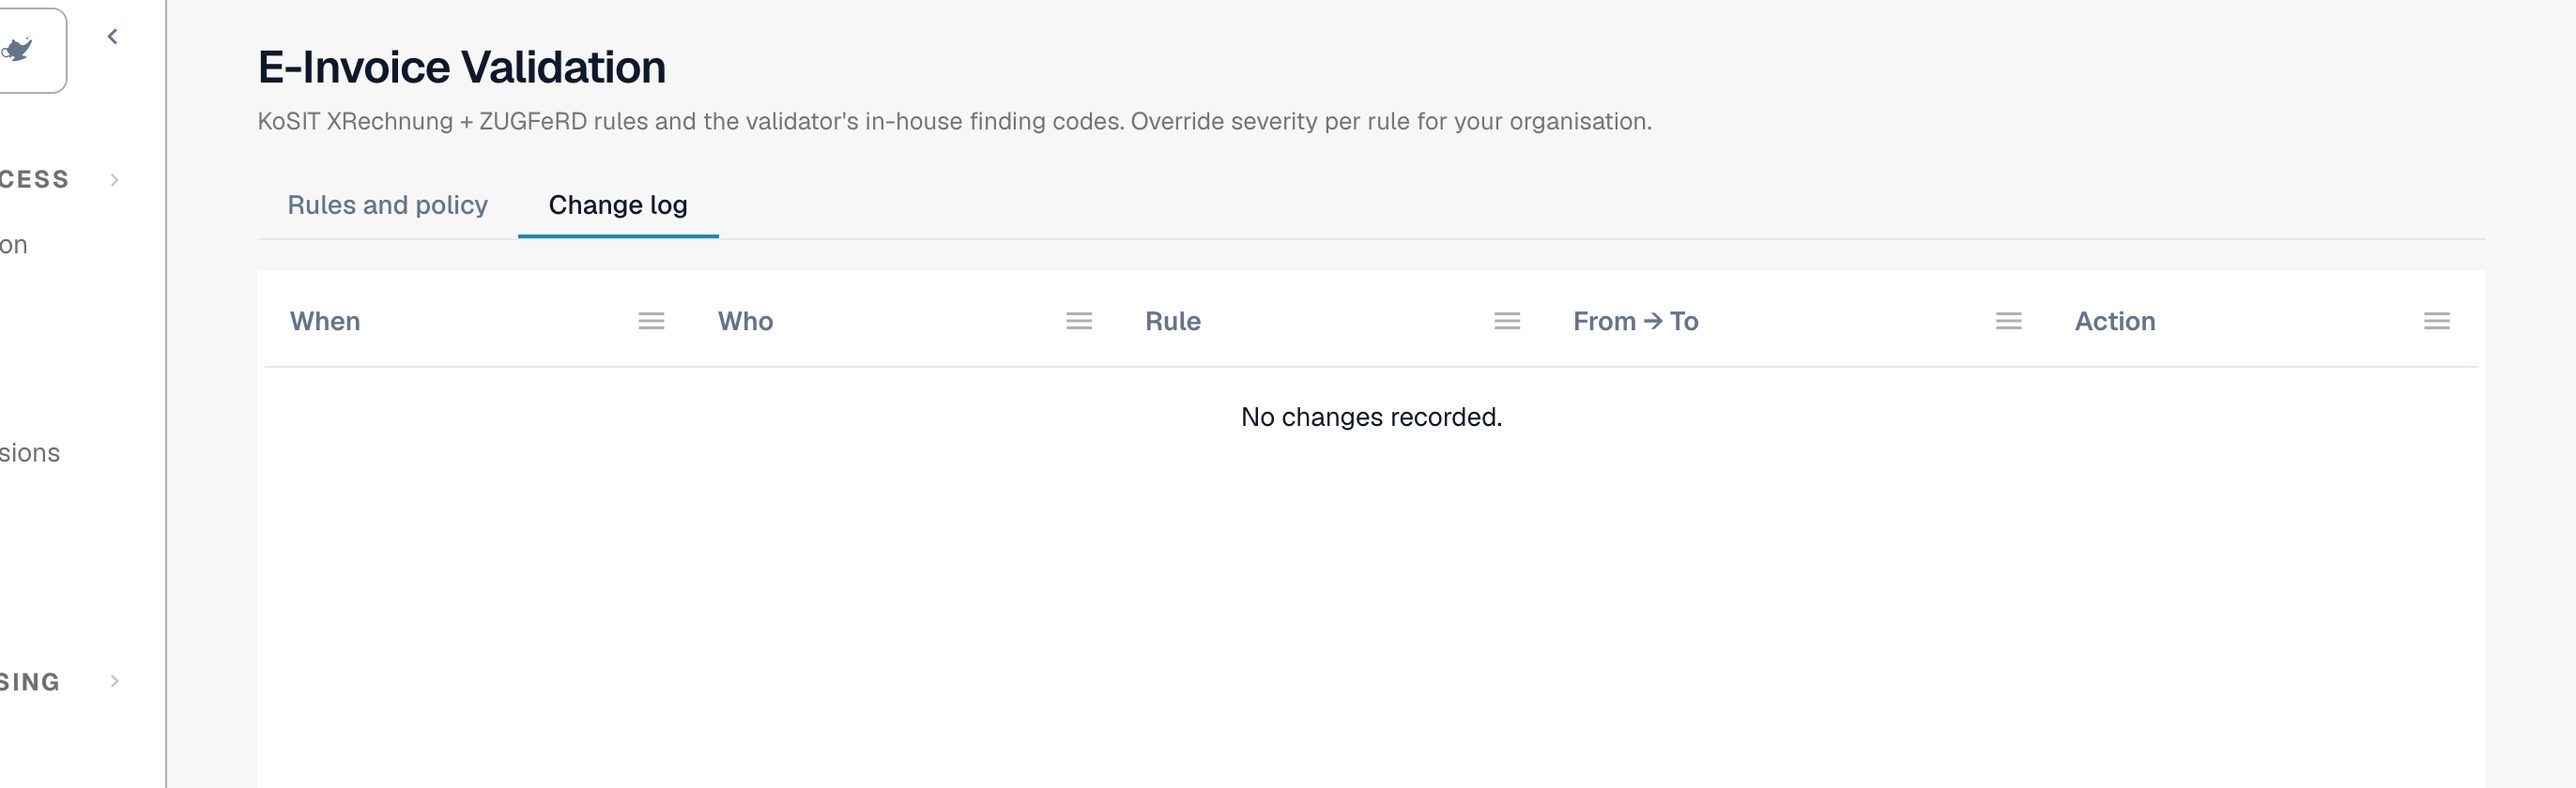
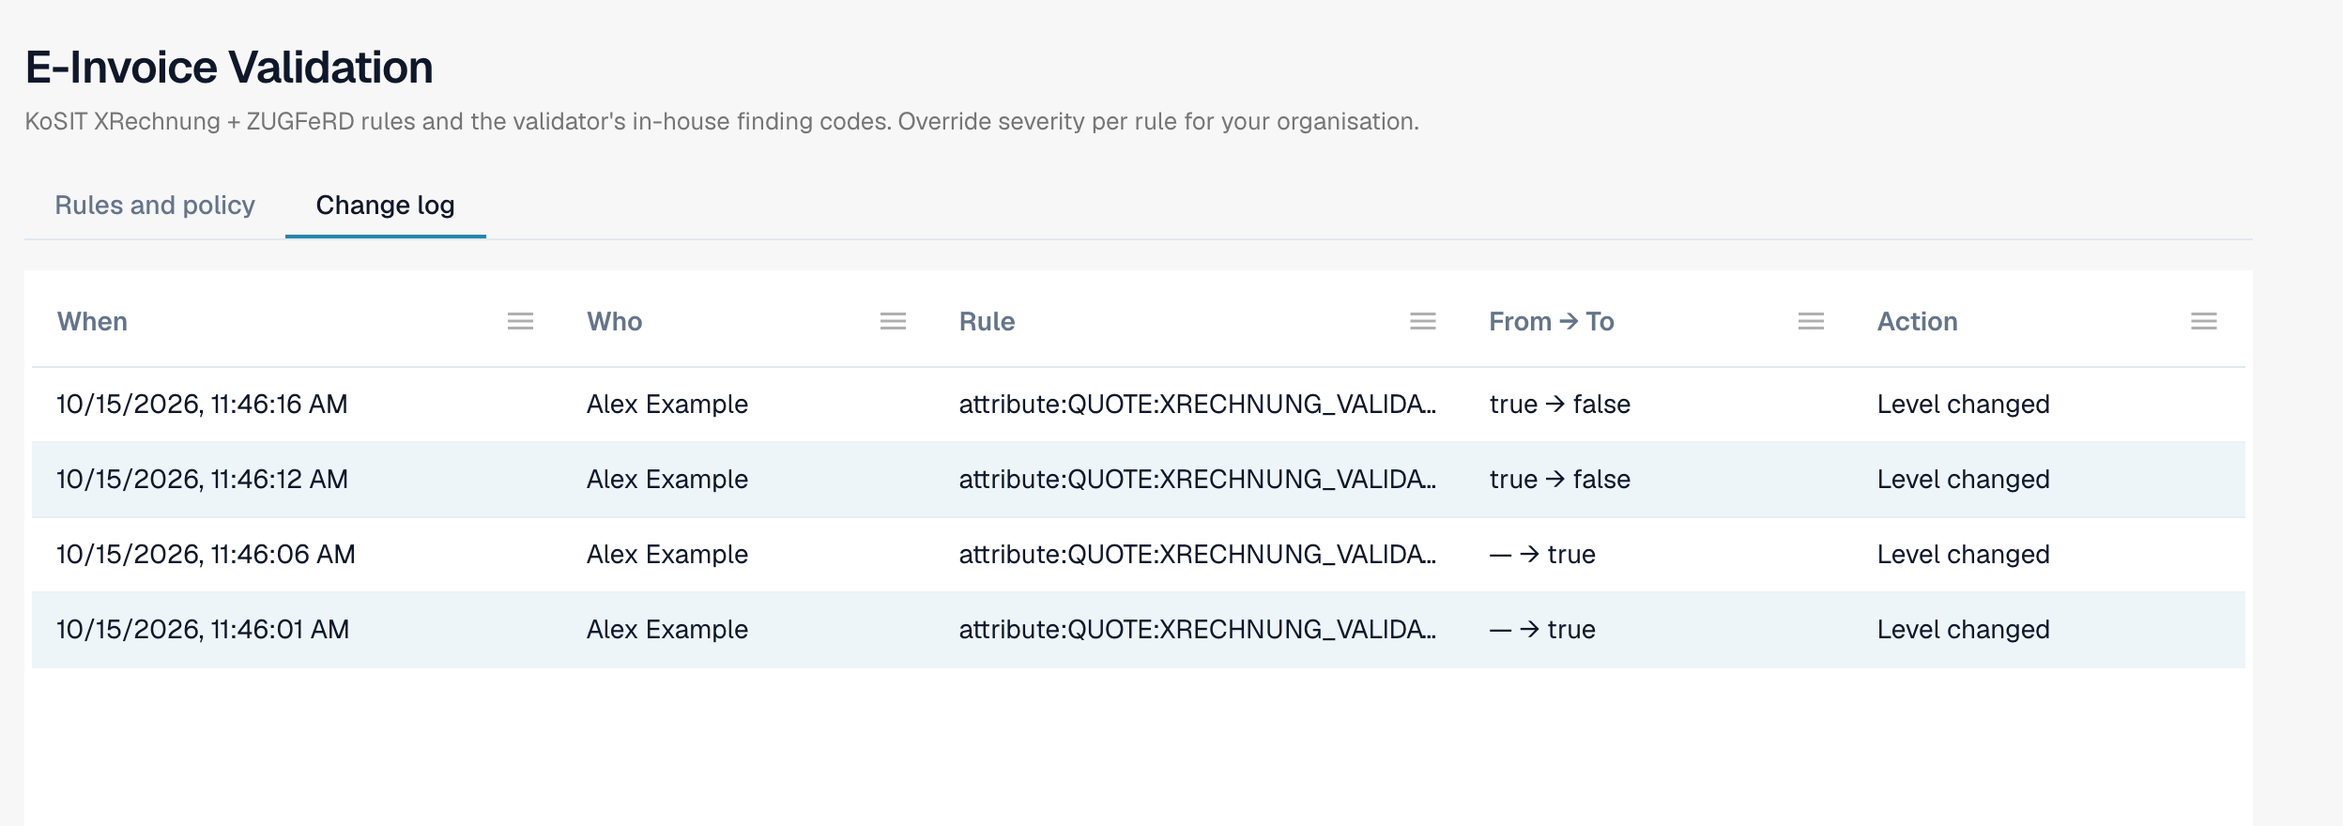
docs: error screen page for rejected e-invoices, populated change log screenshot (CORE-6410)
Claude-Session: https://claude.ai/code/session_01KNaeuhcTr3YU6A9NeVaSGs

diff --git a/docbits/administration-and-setup/settings/document-processing/e-documents/validation-error-screen.md b/docbits/administration-and-setup/settings/document-processing/e-documents/validation-error-screen.md
@@ -1,0 +1,52 @@
+# The error screen for a rejected e-invoice
+
+When you upload an e-invoice that is wrong, DocBits does not lose it. The document gets the status **Error**, and the error screen tells you what is wrong, where, and what to do next. This page shows two examples: an XML file that is not well-formed, and an invoice that breaks a business rule.
+
+> An invoice gets the status **Error** only when validation is **on** and **blocking** for its document type. See [Validation for each document type](validation-per-document-type.md).
+
+## Example 1: the XML file is damaged
+
+A supplier sends an XML file in which a closing tag does not match its opening tag. The file cannot be read, so DocBits stops at the first check, **L1 · Well-formedness**.
+
+<figure><img src="../../../../.gitbook/assets/einvoice-error-xml-malformed.png" alt="The error screen for an XML file that is not well-formed: the XML on the left with the faulty line marked, the explanation on the right"><figcaption><p>The error screen for a damaged XML file. The faulty line is marked in the XML. Example file with fictional data.</p></figcaption></figure>
+
+The screen has two sides:
+
+* **Left: the XML file.** DocBits shows the file with line numbers. The line with the problem is marked in red. Use the buttons above the file to copy the XML or open it in a new tab.
+* **Right: the explanation.** The card **Rejected by** names the check that stopped the file (here **L1 · Well-formedness**) and the rule code (here `XML-PARSE`). Below you see a title in plain language (*XML is not well-formed*), a short explanation and the block **Next step**.
+
+Select **View validation details** to open the full [validation report](validation-report.md).
+
+<figure><img src="../../../../.gitbook/assets/einvoice-report-xml-malformed.png" alt="The validation report of the damaged XML file with the finding XML-PARSE"><figcaption><p>The report of the damaged file: one error at level 1 Syntax, with the technical message and the position</p></figcaption></figure>
+
+The report names the exact position (here line 5, column 4081) and gives the technical message of the XML parser. Select **Show in XML** to jump to that line. The hint **How to fix** tells you to ask the sender for a corrected file.
+
+## Example 2: the invoice breaks a business rule
+
+The XML is fine, but a required field is missing. For example, the seller cannot be identified because no seller identifier, registration identifier or VAT identifier is present (rule `BR-CO-26`).
+
+<figure><img src="../../../../.gitbook/assets/einvoice-error-view.png" alt="The error screen for an invoice that breaks a business rule"><figcaption><p>The error screen for a business-rule error: the layer <strong>L3 · Business Rules</strong>, the rule code and a next step</p></figcaption></figure>
+
+Here the card names the layer **L3 · Business Rules** and the code `BR-CO-26`. The report lists all findings of the invoice, see [Validation report](validation-report.md).
+
+## The buttons below the card
+
+| Button | What it does |
+| --- | --- |
+| **Restart Processing** | Runs the processing of the document again, for example after you changed a setting. The check uses the current settings. |
+| **View DocFlow** | Shows the workflow of the document. |
+| **Copy Details** | Copies the error details, for example for a message to your administrator. |
+| **Create ticket** | Opens a support ticket with the error details. |
+
+Select **Show technical details** on the card for the raw technical information.
+
+## What to do next
+
+* **Errors:** ask the sender for a corrected invoice, or [reject the document](validation-next-step-and-reject.md). A corrected invoice is a new document.
+* **Only warnings:** the document is not blocked. You can continue.
+
+## Related pages
+
+* [Validation report](validation-report.md): all findings, level by level.
+* [Next step and reject a document](validation-next-step-and-reject.md)
+* [Validation for each document type](validation-per-document-type.md): turn validation on and set blocking.

diff --git a/docbits/administration-and-setup/settings/document-processing/e-documents/validation-rules.md b/docbits/administration-and-setup/settings/document-processing/e-documents/validation-rules.md
@@ -14,5 +14,6 @@ The **E-Invoice Validation** page (**Settings → E-Documents → E-Invoice Vali
 | [Rule severities](validation-rule-severities.md) | The rule table: change the severity of each rule for your organisation. | Organisation administrators |
 | [Validation for each document type](validation-per-document-type.md) | Turn validation on (**Enabled**) and decide whether a failed check stops the document (**Blocking**). Every change needs a confirmation. | Organisation administrators |
 | [Change log](validation-change-log.md) | Every change of the settings: when, who, which rule, from → to. | Organisation administrators |
+| [The error screen for a rejected e-invoice](validation-error-screen.md) | What you see when you upload a wrong XML: the explanation, the faulty line and the next step. | Everyone who processes invoices |
 | [Validation report](validation-report.md) | What a user sees when an invoice fails: the findings in plain language. It opens from the document, not from this page. | Everyone who processes invoices |
 | [Next step and reject a document](validation-next-step-and-reject.md) | What to do after you read the report, downloads of the report, and **Reject document**. | Everyone who processes invoices |

diff --git a/docbits/SUMMARY.md b/docbits/SUMMARY.md
@@ -447,6 +447,7 @@
         * [Rule severities](administration-and-setup/settings/document-processing/e-documents/validation-rule-severities.md)
         * [Validation for each document type](administration-and-setup/settings/document-processing/e-documents/validation-per-document-type.md)
         * [Change log](administration-and-setup/settings/document-processing/e-documents/validation-change-log.md)
+        * [The error screen for a rejected e-invoice](administration-and-setup/settings/document-processing/e-documents/validation-error-screen.md)
         * [Validation report](administration-and-setup/settings/document-processing/e-documents/validation-report.md)
         * [Next step and reject a document](administration-and-setup/settings/document-processing/e-documents/validation-next-step-and-reject.md)
       * [Notification Routing](administration-and-setup/settings/document-processing/e-documents/notification-routing.md)

diff --git a/docbits/administration-and-setup/settings/document-processing/e-documents/validation-report.md b/docbits/administration-and-setup/settings/document-processing/e-documents/validation-report.md
@@ -1,6 +1,6 @@
 # Validation report
 
-When DocBits rejects an e-invoice, you can read exactly why. The **validation report** lists every finding in plain language, tells you what to fix, and shows the next step. You open it from the document, not from the settings.
+When DocBits rejects an e-invoice, you can read exactly why. The **validation report** lists every finding in plain language, tells you what to fix, and shows the next step. You open it from the document, not from the settings. The screen where you find it is described in [The error screen for a rejected e-invoice](validation-error-screen.md).
 
 This page is for people who process invoices. Administrators set up the rules on the [E-Invoice Validation](validation-rules.md) page and choose per document type whether a failed check blocks the invoice, see [Validation for each document type](validation-per-document-type.md).
 

diff --git a/docbits/administration-and-setup/settings/document-processing/e-documents/validation-change-log.md b/docbits/administration-and-setup/settings/document-processing/e-documents/validation-change-log.md
@@ -4,7 +4,7 @@ The **Change log** records every change of the validation settings. It belongs t
 
 Open the tab **Change log** next to **Rules and policy**.
 
-<figure><img src="../../../../.gitbook/assets/einvoice-validation-change-log.png" alt="The Change log tab with the columns When, Who, Rule, From to To and Action"><figcaption><p>The change log of an organisation without changes yet</p></figcaption></figure>
+<figure><img src="../../../../.gitbook/assets/einvoice-validation-change-log.png" alt="The Change log tab with the columns When, Who, Rule, From to To and Action"><figcaption><p>The change log with four example entries. The user name is replaced by an example name.</p></figcaption></figure>
 
 | Column | What it shows |
 | --- | --- |
